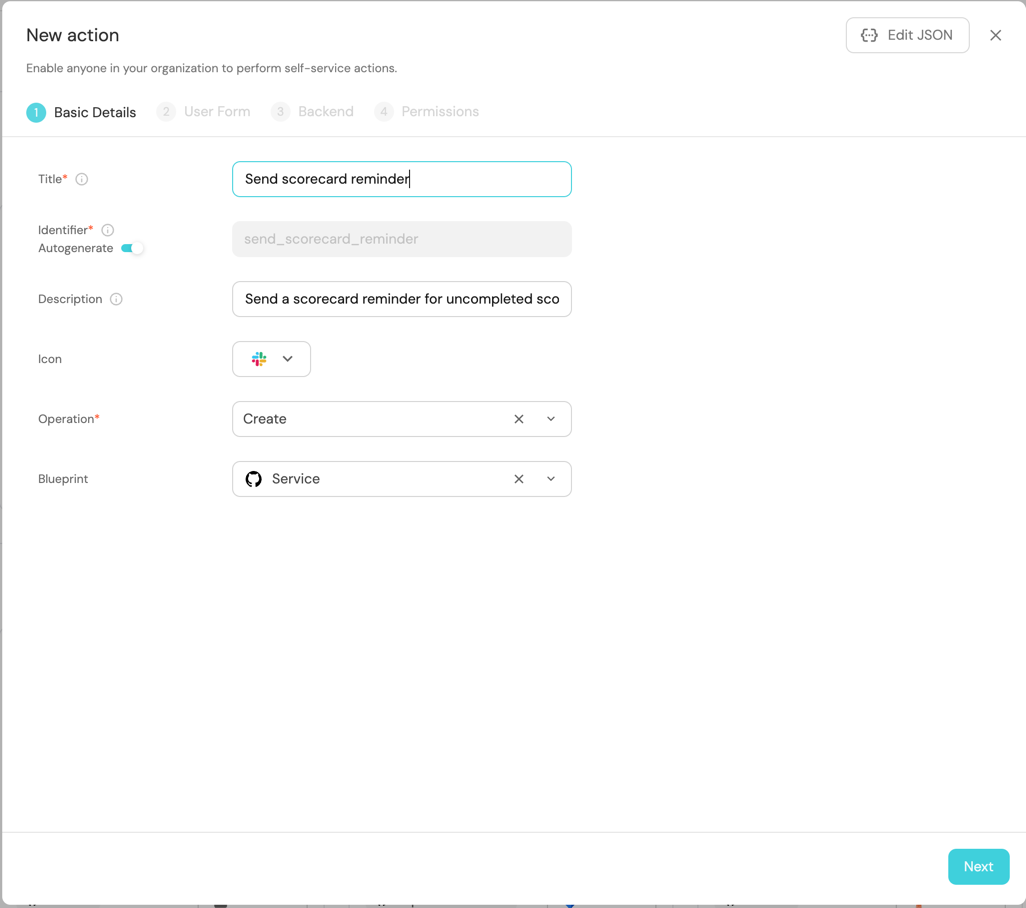
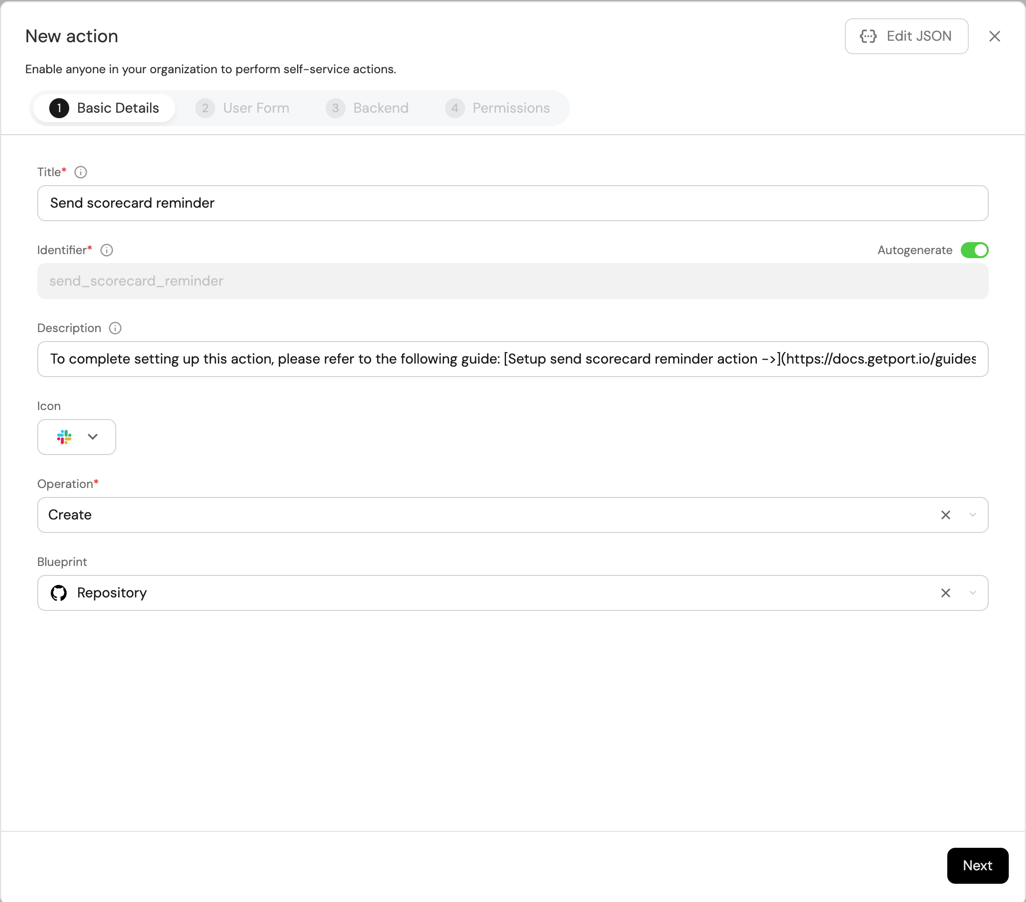
Changed service to repository to reflect the new standard

diff --git a/docs/guides/all/setup-slack-reminders.md b/docs/guides/all/setup-slack-reminders.md
@@ -18,7 +18,7 @@ This guide takes 7 minutes to complete, and aims to demonstrate:
 
 :::info Prerequisites
 
-- This guide assumes you have a Port account and that you have finished the [onboarding process](/quickstart). We will use the `Service` blueprint that was created during the onboarding process.
+- This guide assumes you have a Port account and that you have installed any of Port's [Git Integrations](/build-your-software-catalog/sync-data-to-catalog/git/). We will use the `Repository` blueprint that was created during the installation process.
 - You will need a Git repository in which you can place a workflow/pipeline that we will use in this guide. If you don't have one, we recommend creating a new repository named `Port-actions`.
 :::
 
@@ -46,7 +46,7 @@ After completing it, you will get a sense of how it can benefit different person
 
   - **Title** and **Description**
   - **Operation**: `Create`
-  - **Blueprint**: `Service`
+  - **Blueprint**: `Repository`
   - **icon**: `Slack`
 
 This Self-service has no user inputs, click on the `Next` button twice  to proceed to the `Backend` tab.
@@ -177,7 +177,7 @@ jobs:
                 port_client_secret: ${{ secrets.PORT_CLIENT_SECRET }}
                 port_region: eu
                 slack_webhook_url: ${{ secrets.SLACK_WEBHOOK_URL }}
-                blueprint: service
+                blueprint: repository
                 scorecard: ProductionReadiness
                 target_kind: slack
             - name: Report status to Port
@@ -269,7 +269,7 @@ generate-scorecards-reminders:
       -e INPUT_PORT_CLIENT_SECRET=$PORT_CLIENT_SECRET \
       -e INPUT_SLACK_WEBHOOK_URL=$SLACK_WEBHOOK_URL \
       -e INPUT_OPERATION_KIND="scorecard_reminder" \
-      -e INPUT_BLUEPRINT="service" \
+      -e INPUT_BLUEPRINT="repository" \
       -e INPUT_SCORECARD="ProductionReadiness" \
       -e INPUT_TARGET_KIND="slack" \
       $image_name
